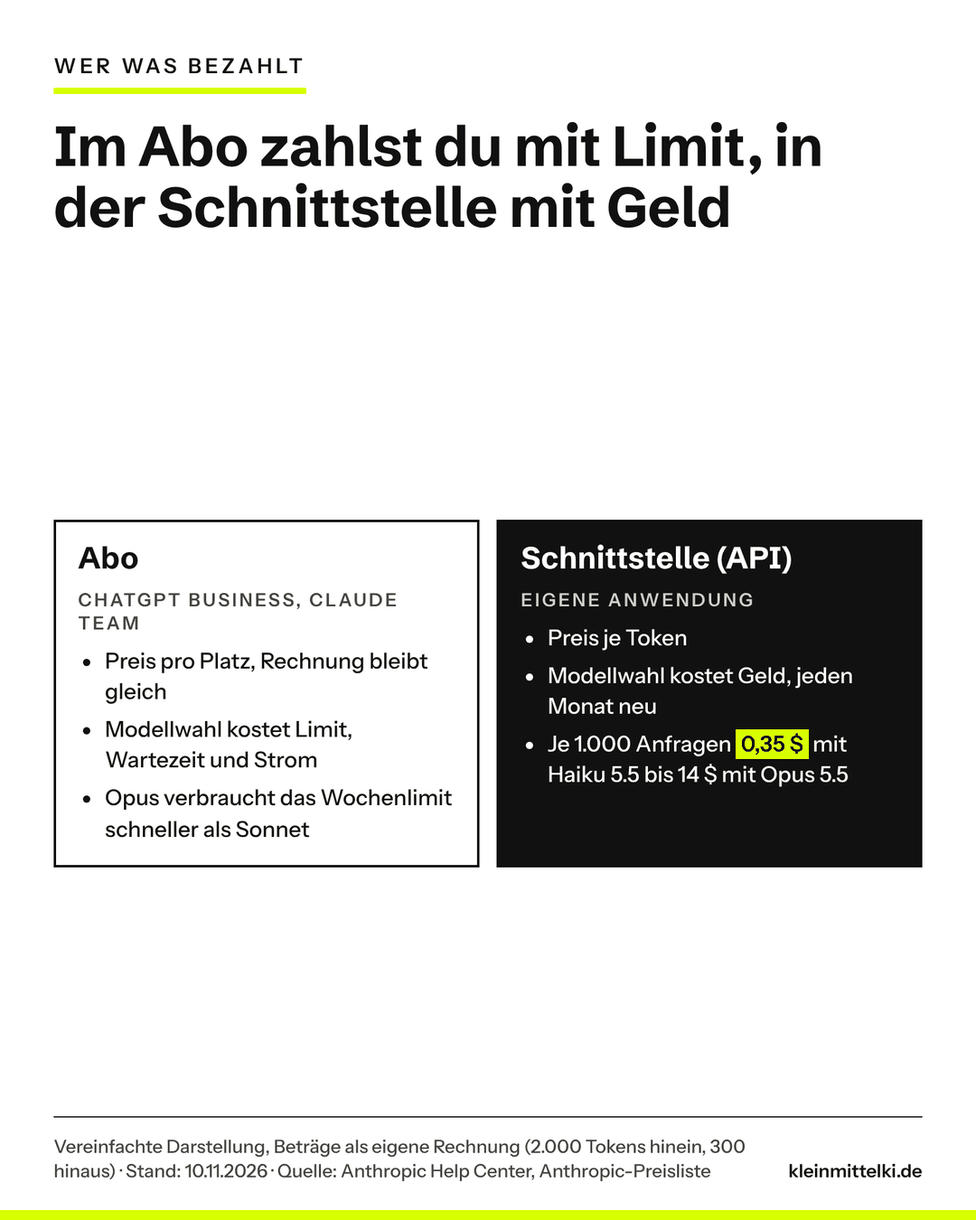
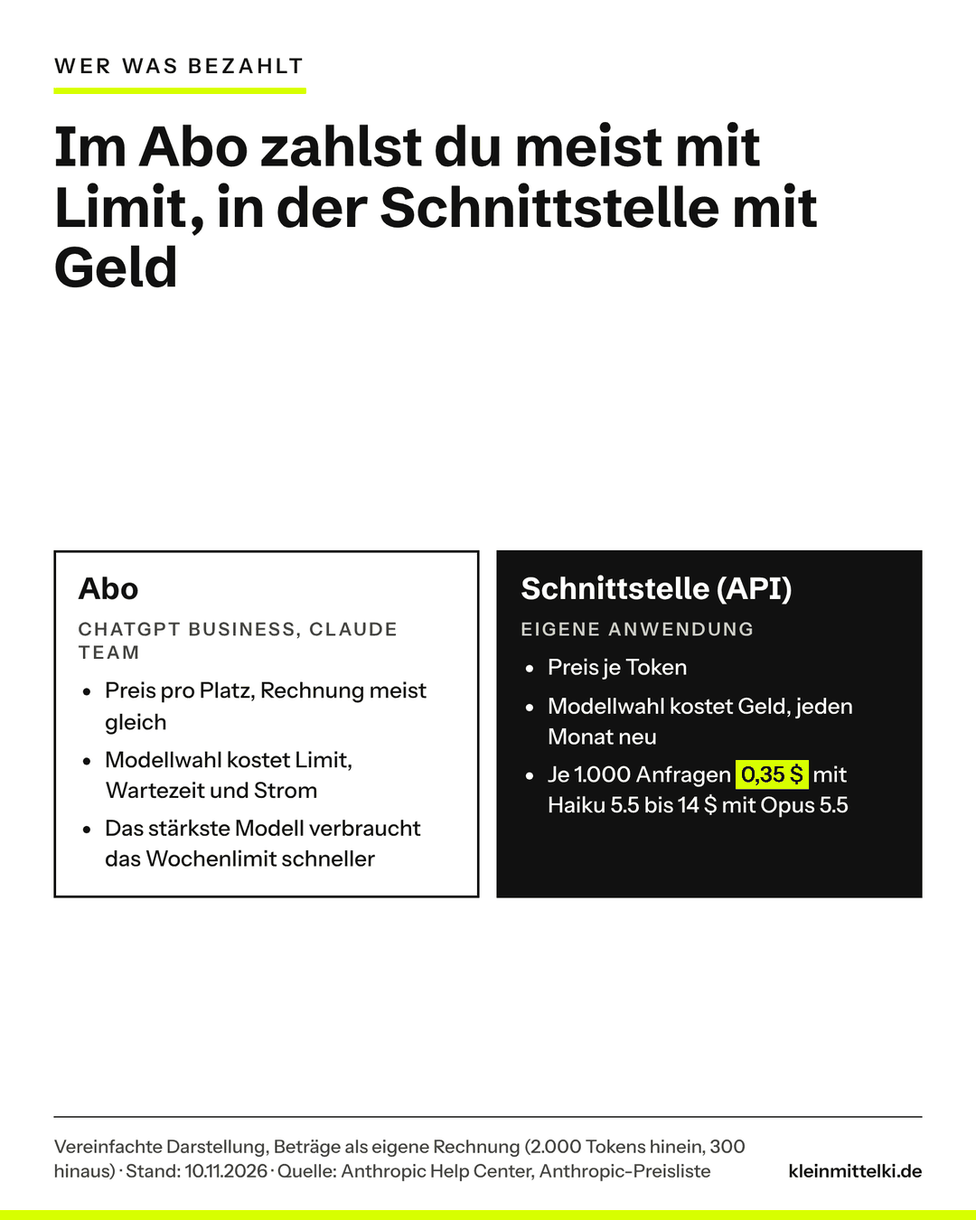
Lauf 2026-11-10 12:47: Runde 2 modellwahl-kanonen-auf-spatzen (Zwischenstand)
Claude-Session: https://claude.ai/code/session_0145MfsfLLRwnGTVkXbPMWG9

Changed region(s): [[0.4583, 0.4044, 0.9472, 0.7467], [0.0611, 0.4356, 0.4583, 0.7156], [0.0611, 0.0933, 0.8556, 0.2489]]

diff --git a/entwuerfe/modellwahl-kanonen-auf-spatzen/g2.html b/entwuerfe/modellwahl-kanonen-auf-spatzen/g2.html
@@ -1,9 +1,9 @@
 <div class="g">
   <div class="g-kicker">Wer was bezahlt</div>
-  <h1 class="g-titel">Im Abo zahlst du mit Limit, in der Schnittstelle mit Geld</h1>
+  <h1 class="g-titel">Im Abo zahlst du meist mit Limit, in der Schnittstelle mit Geld</h1>
   <div class="g-vergleich">
     <div><h3>Abo</h3><p class="g-kopf" style="margin-bottom:10px">ChatGPT Business, Claude Team</p>
-      <ul><li>Preis pro Platz, Rechnung bleibt gleich</li><li>Modellwahl kostet Limit, Wartezeit und Strom</li><li>Opus verbraucht das Wochenlimit schneller als Sonnet</li></ul></div>
+      <ul><li>Preis pro Platz, Rechnung meist gleich</li><li>Modellwahl kostet Limit, Wartezeit und Strom</li><li>Das stärkste Modell verbraucht das Wochenlimit schneller</li></ul></div>
     <div class="g-box--dunkel"><h3>Schnittstelle (API)</h3><p class="g-kopf" style="margin-bottom:10px;color:#cfcfc6">eigene Anwendung</p>
       <ul><li>Preis je Token</li><li>Modellwahl kostet Geld, jeden Monat neu</li><li>Je 1.000 Anfragen <mark>0,35 $</mark> mit Haiku 5.5 bis 14 $ mit Opus 5.5</li></ul></div>
   </div>

diff --git a/entwuerfe/modellwahl-kanonen-auf-spatzen/beitrag.md b/entwuerfe/modellwahl-kanonen-auf-spatzen/beitrag.md
@@ -8,14 +8,14 @@ vorschaubild: vorschaubild.png
 titelbild: titel-modellwahl-kanonen-auf-spatzen.jpg
 ---
 
-INTERN – vor Veröffentlichung entfernen: Thema und Bild „Kanonen auf Spatzen“ sind deine Idee (Chat 10.11.2026), ebenso die zwei Wege (Faustregel fürs Team, Technik davor). Eine eigene Einschätzung von dir liegt noch nicht vor. Deshalb steht im Schlussabschnitt ein Platzhalter [TILL: …] statt einer Ich-Passage; im ganzen Text gibt es sonst keine Ich-Form. Redaktionelle Vorschläge, bitte ersetzen oder freigeben: die Einstiegsszene (Ingenieurbüro mit 40 Leuten, Terminbestätigung), die Zuordnung der Beispielaufgaben zu den drei Stufen (angelehnt an Anthropics Einsatzempfehlungen und an deinen Modelle-Beitrag vom 08.10.), das Beispiel Hausverwaltung mit Kundenanfragen über die Schnittstelle, die fünf Schritte unter „Zum Ausprobieren“ samt Beispiel-Prompt und der Gedanke zum Mitnehmen. Die Preise je 1.000 Anfragen sind eine eigene Rechnung aus der offiziellen Preisliste mit einer angenommenen Anfrage von 2.000 Tokens hinein und 300 hinaus; die Annahme steht im Text. Dass viele Betriebe überdimensioniert arbeiten, ist nicht durch Nutzungsdaten belegt und deshalb als Beobachtung formuliert. Zweiter Platzhalter: Bitte in deinem ChatGPT-Business-Konto prüfen, wie die automatische Auswahl heute heißt.
+INTERN – vor Veröffentlichung entfernen: Thema und Bild „Kanonen auf Spatzen“ sind deine Idee (Chat 10.11.2026), ebenso die zwei Wege (Faustregel fürs Team, Technik davor). Eine eigene Einschätzung von dir liegt noch nicht vor. Deshalb steht im Schlussabschnitt ein Platzhalter [TILL: …] statt einer Ich-Passage; im ganzen Text gibt es sonst keine Ich-Form. Redaktionelle Vorschläge, bitte ersetzen oder freigeben: die Einstiegsszene (Ingenieurbüro mit 40 Leuten, Terminbestätigung), die Zuordnung der Beispielaufgaben zu den drei Stufen (angelehnt an Anthropics Einsatzempfehlungen und an deinen Modelle-Beitrag vom 08.10.), das Beispiel Hausverwaltung mit Kundenanfragen über die Schnittstelle, die fünf Schritte unter „Zum Ausprobieren“ samt Beispiel-Prompt und der Gedanke zum Mitnehmen. Die Preise je 1.000 Anfragen sind eine eigene Rechnung aus der offiziellen Preisliste mit einer angenommenen Anfrage von 2.000 Tokens hinein und 300 hinaus; die Annahme steht im Text. Dass viele Betriebe überdimensioniert arbeiten, ist nicht durch Nutzungsdaten belegt und deshalb als Beobachtung formuliert. Zweiter Platzhalter: Bitte in deinem ChatGPT-Business-Konto prüfen, wie die automatische Auswahl heute heißt. Nach Prüfrunde 1 geändert: Die Aussage „Opus verbraucht das Wochenlimit schneller als Sonnet“ ist gestrichen (Quelle nicht mehr erreichbar); belegt ist nur, dass Fable das Limit schneller verbraucht und auf Standard-Team-Plätzen nur über Zusatzguthaben läuft.
 
 Dienstagmorgen in einem Ingenieurbüro mit 40 Leuten. Die Assistenz der Geschäftsführung lässt sich eine Terminbestätigung an einen Bauherrn freundlicher formulieren. Drei Sätze, nichts Schwieriges. Im Firmenkonto ist das stärkste Modell eingestellt, also rechnet das stärkste Modell. Es ist, als würde man mit dem Sportwagen zum Bäcker fahren, um zwei Brötchen zu holen.
 
-Bisher ging es hier im Blog meist um die Frage, ob und wie Betriebe KI einsetzen. Dieser Beitrag richtet sich an die, die schon dabei sind: Betriebe mit 10 bis 150 Leuten, die ihrem Team ChatGPT Business oder Claude Team gegeben haben. Wer seinem Team ein solches Werkzeug gibt, lässt oft jede Aufgabe über dasselbe Modell laufen, egal ob Rechtschreibung oder Vertragsprüfung. Das Bild vom Auto kennst du vielleicht aus dem Beitrag [ChatGPT ist nicht das KI-Modell](https://www.kleinmittelki.de/chatgpt-claude-gemini-ki-modelle-erklaert/): Das Produkt ist das Fahrzeug, das Modell ist der Motor. Heute geht es um PS und Verbrauch.
+Dieser Beitrag richtet sich an Betriebe, die schon dabei sind: Betriebe mit 10 bis 150 Leuten, die ihrem Team ChatGPT Business oder Claude Team gegeben haben. Wer seinem Team ein solches Werkzeug gibt, lässt oft jede Aufgabe über dasselbe Modell laufen, egal ob Rechtschreibung oder Vertragsprüfung. Das Bild vom Auto kennst du vielleicht aus dem Beitrag [ChatGPT ist nicht das KI-Modell](https://www.kleinmittelki.de/chatgpt-claude-gemini-ki-modelle-erklaert/): Das Produkt ist das Fahrzeug, das Modell ist der Motor. Heute geht es um PS und Verbrauch.
 
 ```html
-<div class="kmk-kurz" style="border:2px solid #111;border-left:10px solid #D7FF00;padding:18px 22px;margin:28px 0;background:#fff;color:#111"><p style="margin:0 0 12px;font-weight:700;font-size:13px;letter-spacing:3px;text-transform:uppercase;line-height:1.3">Das Wichtigste in 30 Sekunden</p><ul style="margin:0;padding-left:20px;display:grid;gap:8px;line-height:1.5"><li style="margin:0">KI-Modelle gibt es in Größen wie Motoren. Bei Claude kostet das größte Modell je Token das 80-Fache des kleinsten.</li><li style="margin:0">Im Abo zahlst du pro Platz. Dort entscheidet die Modellwahl über Limits, Wartezeit und Strom. Echtes Geld kostet sie erst bei eigenen Anwendungen über die Schnittstelle.</li><li style="margin:0">Billig ist nicht automatisch günstig: Ein kleines Modell, das scheitert, kostet Nacharbeit. Für schwierige Aufgaben ist das große Modell richtig.</li><li style="margin:0">Weg 1: eine Faustregel fürs Team, welche Aufgabe auf welche Stufe gehört, dazu kurze Antworten bestellen und Dateien hochladen statt hineinkopieren.</li><li style="margin:0">Weg 2: Technik, die pro Anfrage entscheidet. In ChatGPT gibt es das schon, für eigene Anwendungen heißt es Router. Vorher an echten Fällen testen.</li></ul></div>
+<div class="kmk-kurz" style="border:2px solid #111;border-left:10px solid #D7FF00;padding:18px 22px;margin:28px 0;background:#fff;color:#111"><p style="margin:0 0 12px;font-weight:700;font-size:13px;letter-spacing:3px;text-transform:uppercase;line-height:1.3">Das Wichtigste in 30 Sekunden</p><ul style="margin:0;padding-left:20px;display:grid;gap:8px;line-height:1.5"><li style="margin:0">KI-Modelle gibt es in Größen wie Motoren. Bei Claude kostet das größte Modell je Token das 80-Fache des kleinsten.</li><li style="margin:0">Im Abo zahlst du pro Platz. Dort entscheidet die Modellwahl über Limits, Wartezeit und Strom, meist nicht über die Rechnung. Richtig Geld kostet sie bei eigenen Anwendungen über die Schnittstelle.</li><li style="margin:0">Billig ist nicht automatisch günstig: Ein kleines Modell, das scheitert, kostet Nacharbeit. Für schwierige Aufgaben ist das große Modell richtig.</li><li style="margin:0">Weg 1: eine Faustregel fürs Team, welche Aufgabe auf welche Stufe gehört, dazu kurze Antworten bestellen und Dateien hochladen statt hineinkopieren.</li><li style="margin:0">Weg 2: Technik, die pro Anfrage entscheidet. In ChatGPT gibt es das schon, für eigene Anwendungen heißt es Router. Vorher an echten Fällen testen.</li></ul></div>
 ```
 
 ## Gleiche Marke, unterschiedliche Motoren
@@ -27,7 +27,7 @@ Jeder große Anbieter hat mehrere Modelle gleichzeitig im Angebot, gestaffelt wi
 - **Claude Opus 5.5:** 4 US-Dollar hinein, 20 US-Dollar hinaus
 - **Claude Fable 5.2:** 8 US-Dollar hinein, 40 US-Dollar hinaus
 
-Je Token kostet Sonnet damit das 20-Fache von Haiku, Opus das 40-Fache und Fable das 80-Fache. Anthropic beschreibt auch, wofür die Stufen gedacht sind: Haiku für viele, zeitkritische Aufgaben wie Einordnen, Herausziehen und Weiterleiten, Sonnet für die meisten Anwendungen, Opus und Fable für das anspruchsvollste Denken und lange Aufgaben, bei denen ein Agent selbstständig viele Schritte erledigt.
+Je Token kostet Sonnet damit das 20-Fache von Haiku, Opus das 40-Fache und Fable das 80-Fache. Anthropic beschreibt auch, wofür die Stufen gedacht sind: Haiku für viele, zeitkritische Aufgaben wie Einordnen, Herausziehen und Weiterleiten, Sonnet für Alltagsarbeit wie Texte und Datenanalyse, Opus und Fable für das anspruchsvollste Denken und lange Aufgaben, bei denen ein Agent selbstständig viele Schritte erledigt.
 
 Was das in Euro und Cent heißt, zeigt eine einfache Rechnung. Angenommen, eine typische Anfrage schickt 2.000 Tokens hinein und bekommt 300 zurück. Dann kosten 1.000 solcher Anfragen mit Haiku 5.5 rund 0,35 US-Dollar, mit Sonnet 5.5 rund 7 US-Dollar, mit Opus 5.5 rund 14 US-Dollar und mit Fable 5.2 rund 28 US-Dollar. Die Annahme ist von uns gewählt, die Preise sind die offiziellen. Andere Längen verschieben die Beträge, nicht das Verhältnis.
 
@@ -37,25 +37,25 @@ In ChatGPT heißen die Stufen anders, das Prinzip ist dasselbe: Es gibt schnelle
 
 ## Was der Sprit kostet: Limits, Wartezeit und Strom
 
-Die meisten Betriebe nutzen ChatGPT oder Claude im Abo und zahlen pro Platz. Die Rechnung am Monatsende ändert sich nicht, egal welches Modell jemand wählt. Trotzdem ist der Sprit nicht kostenlos, er wird nur in anderer Währung bezahlt.
+Die meisten Betriebe nutzen ChatGPT oder Claude im Abo und zahlen pro Platz. Solange niemand Zusatzguthaben nutzt, ändert sich die Rechnung am Monatsende nicht. Ausnahme: Das stärkste Claude-Modell läuft auf Standard-Plätzen im Team-Abo nur über solches Guthaben. Sonst wird der Sprit in anderer Währung bezahlt.
 
-**Limits:** Laut [Anthropic](https://support.claude.com/en/articles/9797557) hängt die Nutzungsgrenze unter anderem von der Länge der Nachrichten, der Größe der Dateien und von der Modellwahl ab. Für Team- und Enterprise-Plätze schreibt Anthropic ausdrücklich, dass Opus das Wochenlimit schneller verbraucht als Sonnet, und empfiehlt Sonnet für den Alltag. Wer morgens für jede Kleinigkeit das größte Modell nimmt, steht nachmittags bei der wichtigen Auswertung womöglich an der Grenze.
+**Limits:** Laut [Anthropic](https://support.claude.com/en/articles/9797557-usage-limit-best-practices) hängt die Nutzungsgrenze unter anderem von der Länge der Nachrichten, der Größe der Dateien und von der Modellwahl ab. Beim stärksten Modell schreibt Anthropic es [ausdrücklich](https://support.claude.com/en/articles/15424964-claude-fable-models-on-your-plan): Fable verbraucht das Wochenlimit schneller als die anderen Claude-Modelle. Wer morgens für jede Kleinigkeit das größte Modell nimmt, steht nachmittags bei der wichtigen Auswertung womöglich an der Grenze.
 
 **Wartezeit:** Kleine Modelle antworten schneller. Anthropic empfiehlt Haiku ausdrücklich für die niedrigste Wartezeit. Bei vielen Anfragen am Tag merkt man das.
 
-**Strom:** Eine Studie der Hochschule München hat 14 offene Modelle mit 1.000 Fragen auf eigener Hardware gemessen. Modelle, die vor der Antwort ausführlich „nachdenken“, erzeugten [bis zu 50-mal so viel CO₂](https://www.frontiersin.org/news/2025/06/19/ai-prompts-50-times-more-co2-emissions) wie knapp antwortende Modelle. Im Schnitt schrieben sie 543,5 Denk-Tokens je Frage, die knappen Modelle 37,7. Die Studie betrifft offene Modelle, nicht ChatGPT oder Claude selbst. Die Richtung ist trotzdem klar, und der Rat des Autors Maximilian Dauner lautet sinngemäß: knapp antworten lassen und große Modelle nur für Aufgaben nutzen, die sie wirklich brauchen.
+**Strom:** Eine Studie der Hochschule München hat 14 offene Modelle mit 1.000 Fragen auf eigener Hardware gemessen. Modelle, die vor der Antwort ausführlich „nachdenken“, erzeugten [bis zu 50-mal so viel CO₂](https://www.frontiersin.org/news/2025/06/19/ai-prompts-50-times-more-co2-emissions) wie knapp antwortende Modelle. Die Studie betrifft offene Modelle, nicht ChatGPT oder Claude selbst. Der Rat des Autors Maximilian Dauner lautet sinngemäß: knapp antworten lassen und große Modelle nur für Aufgaben nutzen, die sie wirklich brauchen.
 
 **Geld:** Um echte Euro geht es erst, wenn ein Betrieb eine eigene Anwendung über die Schnittstelle baut, die sogenannte API. Ein Beispiel: Eine Hausverwaltung lässt eingehende Mieteranfragen automatisch einsortieren, also Schaden, Nebenkosten oder Kündigung. Kommen viele solcher Anfragen zusammen, macht der Unterschied zwischen 0,35 und 14 US-Dollar je 1.000 Anfragen aus der Rechnung oben einen echten Posten.
 
-![Schaubild: Abo und Schnittstelle im Vergleich, im Abo kostet die Modellwahl Limit, Wartezeit und Strom, in der Schnittstelle Geld](kmk-modellwahl-g2.png "Im Abo zahlst du die Modellwahl mit Limit und Wartezeit, über die Schnittstelle mit Geld.")
+![Schaubild: Abo und Schnittstelle im Vergleich, im Abo kostet die Modellwahl vor allem Limit, Wartezeit und Strom, das stärkste Modell verbraucht das Wochenlimit schneller; in der Schnittstelle kostet sie Geld](kmk-modellwahl-g2.png "Im Abo zahlst du die Modellwahl meist mit Limit und Wartezeit, über die Schnittstelle mit Geld.")
 
 ## Billig ist nicht immer günstig
 
-Bevor jetzt jemand alles auf das kleinste Modell umstellt: Anthropic selbst warnt vor dem Kurzschluss. Der Rat in der [Hersteller-Doku](https://platform.claude.com/docs/en/about-claude/models/optimizing-for-cost-and-intelligence) lautet, Modelle nach den Kosten je erledigter Aufgabe zu vergleichen, nicht nach dem Preis je Token. Ein günstiges Modell, das scheitert, kostet den Versuch, die Wiederholung und die Folgen. In einem Betrieb heißt das: die Zeit des Mitarbeiters, der nacharbeitet, oder im schlechtesten Fall den Fehler im Angebot.
+Bevor jetzt jemand alles auf das kleinste Modell umstellt: Der Rat in der [Hersteller-Doku](https://platform.claude.com/docs/en/about-claude/models/optimizing-for-cost-and-intelligence) lautet, Modelle nach den Kosten je erledigter Aufgabe zu vergleichen, nicht nach dem Preis je Token. Ein günstiges Modell, das scheitert, kostet den Versuch, die Wiederholung und die Folgen. In einem Betrieb heißt das: die Zeit des Mitarbeiters, der nacharbeitet, oder im schlechtesten Fall den Fehler im Angebot.
 
-Anthropics eigene Messungen zeigen beide Seiten. In einem Test mit schwierigen Prüfungsfragen beantwortete Haiku 5.5 85 Prozent richtig, Opus 5.5 und Sonnet 5.5 je 91 Prozent. Je richtiger Antwort kostete Haiku etwa ein Zwanzigstel von Opus. Günstiger also, aber eben auch mit mehr falschen Antworten. Ob sich das lohnt, hängt davon ab, was eine falsche Antwort in deinem Ablauf anrichtet.
+Anthropics eigene Messungen zeigen beide Seiten. In einem Test mit schwierigen Prüfungsfragen beantwortete Haiku 5.5 85 Prozent richtig, Opus 5.5 und Sonnet 5.5 je 91 Prozent. Je richtiger Antwort kostete Haiku etwa ein Zwanzigstel von Opus. Ob sich das lohnt, hängt davon ab, was eine falsche Antwort in deinem Ablauf anrichtet.
 
-Umgekehrt ist das große Modell nicht automatisch teurer pro Ergebnis. In einem Programmier-Test löste Opus 5.5 auf niedriger Denkstufe etwa so viele Aufgaben wie Sonnet 5.5 auf Standardstufe, für etwa 7 Prozent mehr je gelöster Aufgabe. Und das stärkste Modell bringt nicht immer mehr: In einem Recherche-Test kostete Fable 5.2 das 4,3-Fache von Sonnet 5.5, ohne messbar besseres Ergebnis. Anthropic nennt den Denkaufwand innerhalb eines Modells deshalb oft den besseren Hebel als den Wechsel des Modells. Für Entwickler empfiehlt der Hersteller zwei gleichwertige Wege: klein anfangen und nur bei konkreten Lücken hochstufen, oder groß anfangen und dann prüfen, ob weniger reicht.
+Umgekehrt ist das große Modell nicht automatisch teurer pro Ergebnis. In einem Programmier-Test löste Opus 5.5 auf niedriger Denkstufe etwa so viele Aufgaben wie Sonnet 5.5 auf Standardstufe, für etwa 7 Prozent mehr je gelöster Aufgabe. Und das stärkste Modell bringt nicht immer mehr: In einem Recherche-Test kostete Fable 5.2 das 4,3-Fache von Sonnet 5.5, ohne messbar besseres Ergebnis. Anthropic nennt den Denkaufwand innerhalb eines Modells deshalb oft den besseren Hebel als den Wechsel des Modells.
 
 Eine Einschränkung gehört dazu: Das alles sind Messungen des Herstellers, laut Anthropic selbst „richtungsweisend, keine Garantie“. Die Botschaft ist deshalb nicht „immer klein“, sondern: passend. Für den Vertragsvergleich, die mehrstufige Recherche oder die knifflige Kalkulation ist das große Modell richtig.
 
@@ -75,26 +75,26 @@ Zwei weitere Gewohnheiten sparen unabhängig vom Modell.
 
 **Kurze Antworten bestellen.** Anthropic hat denselben Agenten mit unterschiedlichen Vorgaben fürs Ergebnis laufen lassen. Eine Zeile kostete 0,49 US-Dollar, zwei Zeilen 0,57 US-Dollar, ein ausführliches Memo 1,40 US-Dollar, also das 2,8-Fache. Die Genauigkeit war im Rahmen der Messschwankung gleich. Frag also nach der Antwort, die du wirklich liest, nicht nach der, die gründlich aussieht.
 
-**Dateien hochladen statt hineinkopieren.** Im selben Dokument steht ein Versuch mit 25 Fragen zu einer Tabelle mit 1.862 Zeilen. In die Anfrage kopiert, waren 7 von 25 Antworten richtig, bei 5,01 US-Dollar. Als Datei hochgeladen und per Programmcode ausgewertet, waren es 25 von 25, bei 0,40 US-Dollar, etwa einem Zwölftel. Gemessen wurde das über die Schnittstelle. Dass es in den Chat-Programmen ähnlich wirkt, die Tabelle also besser als Datei hochzuladen statt hineinzukopieren, ist plausibel, aber nicht gemessen.
+**Dateien hochladen statt hineinkopieren.** Im selben Dokument steht ein Versuch mit 25 Fragen zu einer Tabelle mit 1.862 Zeilen. In die Anfrage kopiert, waren 7 von 25 Antworten richtig, bei 5,01 US-Dollar. Als Datei hochgeladen und per Programmcode ausgewertet, waren es 25 von 25, bei 0,40 US-Dollar, etwa einem Zwölftel. Gemessen wurde das über die Schnittstelle. Dass es in den Chat-Programmen ähnlich wirkt, ist plausibel, aber nicht gemessen.
 
 ## Weg 2: Technik, die vorher entscheidet
 
-Der zweite Weg nimmt dem Team die Entscheidung ab. Eine Weiche schaut sich jede Anfrage an und schickt sie entweder an ein kleines oder an ein großes Modell.
+Der zweite Weg nimmt dem Team die Entscheidung ab: Eine Weiche schaut sich jede Anfrage an und schickt sie entweder an ein kleines oder an ein großes Modell.
 
 In ChatGPT gibt es das bereits, die Auswahl heißt „Auto“. In den [Release Notes für Enterprise](https://help.openai.com/en/articles/10128477-chatgpt-enterprise-and-edu-release-notes) beschreibt OpenAI, dass Administratoren die automatische Weiterleitung auf ein kleineres Denkmodell lenken können. [TILL: Bitte im eigenen ChatGPT-Business-Konto prüfen, wie die automatische Auswahl dort heute heißt und ob sie voreingestellt ist; dann diesen Platzhalter löschen.] Für Betriebe, die nur das Abo nutzen, heißt das: Wer „Auto“ stehen lässt, überlässt die Wahl dem Anbieter. Wer fest das größte Modell einstellt, schaltet die Weiche ab.
 
-Für eigene Anwendungen über die Schnittstelle heißt diese Weiche Router. Forschende der UC Berkeley haben 2024 mit [RouteLLM](https://www.lmsys.org/blog/2024-07-01-routellm) gezeigt, wie viel das bringen kann: Je nach Testaufgaben sanken die Kosten um 35 Prozent, 45 Prozent oder um über 85 Prozent gegenüber „alles an das große Modell“, bei 95 Prozent von dessen Qualität. In einem der Tests reichte es dafür, 26 Prozent der Anfragen an das große Modell zu schicken, nach zusätzlichem Training 14 Prozent. Eine Stanford-Gruppe hatte 2023 mit [FrugalGPT](https://arxiv.org/abs/2305.05176) ein verwandtes Prinzip beschrieben, die Kaskade: erst das günstige Modell fragen, nur wenn die Antwort nicht reicht, das nächstgrößere. Die Preise der Anbieter unterschieden sich damals um zwei Größenordnungen, die Ersparnis lag unter Laborbedingungen bei bis zu 98 Prozent.
+Für eigene Anwendungen über die Schnittstelle heißt diese Weiche Router. Forschende der UC Berkeley haben 2024 mit [RouteLLM](https://www.lmsys.org/blog/2024-07-01-routellm) gezeigt, wie viel das bringen kann: Je nach Testaufgaben sanken die Kosten um 35 Prozent, 45 Prozent oder um über 85 Prozent gegenüber „alles an das große Modell“, bei 95 Prozent von dessen Qualität. In einem der Tests reichte es dafür, 26 Prozent der Anfragen an das große Modell zu schicken, nach zusätzlichem Training 14 Prozent. Eine Stanford-Gruppe beschrieb 2023 mit [FrugalGPT](https://arxiv.org/abs/2305.05176) die verwandte Kaskade: erst das günstige Modell fragen, nur wenn nötig das nächstgrößere, unter Laborbedingungen mit bis zu 98 Prozent Ersparnis.
 
 ![Schaubild: Ein Router prüft jede Anfrage und schickt einfache an ein kleines, schwierige an ein großes Modell, dazu die Ergebnisse von RouteLLM 2024](kmk-modellwahl-g4.png "Das Prinzip zählt, nicht die Zahl: Wie viel ein Router spart, hängt davon ab, wie viele deiner Anfragen wirklich einfach sind.")
 
-Beide Zahlen stammen aus der Forschung mit Modellen und Preisen von 2023 und 2024. Sie zeigen das Prinzip, kein Versprechen. Wie viel ein Router spart, hängt vor allem davon ab, wie viele der eigenen Anfragen wirklich einfach sind. Deshalb gilt vor jedem Umbau: an echten Fällen aus dem eigenen Betrieb testen, nicht an Ranglisten. Das empfiehlt auch Anthropic. Und es lohnt sich die Frage aus dem Beitrag [Nicht jedes Problem braucht KI](https://www.kleinmittelki.de/nicht-jedes-problem-braucht-ki/): Steht das Merkmal schon im Betreff, reicht vielleicht eine Mailregel ganz ohne Modell.
+Beide Zahlen stammen aus der Forschung mit Modellen und Preisen von 2023 und 2024. Sie zeigen das Prinzip, kein Versprechen. Deshalb gilt vor jedem Umbau: an echten Fällen aus dem eigenen Betrieb testen, nicht an Ranglisten. Das empfiehlt auch Anthropic. Und es lohnt sich die Frage aus dem Beitrag [Nicht jedes Problem braucht KI](https://www.kleinmittelki.de/nicht-jedes-problem-braucht-ki/): Steht das Merkmal schon im Betreff, reicht vielleicht eine Mailregel ganz ohne Modell.
 
 Zwei Hebel für Anwendungen über die Schnittstelle gibt es außerdem. Was nicht sofort fertig sein muss, etwa das nächtliche Einsortieren von Belegen, kann über die Stapelverarbeitung laufen: Antwort meist innerhalb einer Stunde, spätestens nach 24 Stunden, dafür 50 Prozent Rabatt. Und laut Anthropic ist das Zwischenspeichern wiederkehrender Anweisungen, Prompt Caching genannt, in den eigenen Messungen meist der größte Hebel.
 
 ## Zum Ausprobieren: drei Aufgaben, zwei Stufen
 
 ```html
-<div class="kmk-kurz" style="border:2px solid #111;border-left:10px solid #D7FF00;padding:18px 22px;margin:28px 0;background:#fff;color:#111"><p style="margin:0 0 12px;font-weight:700;font-size:13px;letter-spacing:3px;text-transform:uppercase;line-height:1.3">Zum Ausprobieren: die eigene Faustregel in einer halben Stunde</p><ol style="margin:0;padding:0;list-style:none;display:grid;gap:10px;line-height:1.5"><li style="margin:0;display:grid;grid-template-columns:30px 1fr;gap:10px;align-items:start"><span style="background:#D7FF00;font-weight:700;text-align:center;line-height:30px;height:30px">1</span><span>Such dir drei typische Aufgaben aus deinem Betrieb: eine leichte (Mail umformulieren), eine mittlere (Angebotstext), eine schwere (zwei Verträge vergleichen).</span></li><li style="margin:0;display:grid;grid-template-columns:30px 1fr;gap:10px;align-items:start"><span style="background:#D7FF00;font-weight:700;text-align:center;line-height:30px;height:30px">2</span><span>Lass jede Aufgabe einmal mit der kleinsten und einmal mit der größten Stufe laufen, die dein Abo anbietet. Gleicher Prompt, gleiche Unterlagen.</span></li><li style="margin:0;display:grid;grid-template-columns:30px 1fr;gap:10px;align-items:start"><span style="background:#D7FF00;font-weight:700;text-align:center;line-height:30px;height:30px">3</span><span>Leg die Antworten nebeneinander und frag dich nur: Welche würde ich so verschicken oder verwenden?</span></li><li style="margin:0;display:grid;grid-template-columns:30px 1fr;gap:10px;align-items:start"><span style="background:#D7FF00;font-weight:700;text-align:center;line-height:30px;height:30px">4</span><span>Wo die kleine Stufe reicht, kommt die Aufgabe in die Faustregel fürs Team. Wo nicht, bleibt sie beim großen Modell.</span></li><li style="margin:0;display:grid;grid-template-columns:30px 1fr;gap:10px;align-items:start"><span style="background:#D7FF00;font-weight:700;text-align:center;line-height:30px;height:30px">5</span><span>Wiederhole die leichte Aufgabe mit dem Zusatz unten und vergleiche, ob dir etwas fehlt.</span></li></ol></div>
+<div class="kmk-kurz" style="border:2px solid #111;border-left:10px solid #D7FF00;padding:18px 22px;margin:28px 0;background:#fff;color:#111"><p style="margin:0 0 12px;font-weight:700;font-size:13px;letter-spacing:3px;text-transform:uppercase;line-height:1.3">Die eigene Faustregel in einer halben Stunde</p><ol style="margin:0;padding:0;list-style:none;display:grid;gap:10px;line-height:1.5"><li style="margin:0;display:grid;grid-template-columns:30px 1fr;gap:10px;align-items:start"><span style="background:#D7FF00;font-weight:700;text-align:center;line-height:30px;height:30px">1</span><span>Such dir drei typische Aufgaben aus deinem Betrieb: eine leichte (Mail umformulieren), eine mittlere (Angebotstext), eine schwere (zwei Verträge vergleichen).</span></li><li style="margin:0;display:grid;grid-template-columns:30px 1fr;gap:10px;align-items:start"><span style="background:#D7FF00;font-weight:700;text-align:center;line-height:30px;height:30px">2</span><span>Lass jede Aufgabe einmal mit der kleinsten und einmal mit der größten Stufe laufen, die dein Abo anbietet. Gleicher Prompt, gleiche Unterlagen.</span></li><li style="margin:0;display:grid;grid-template-columns:30px 1fr;gap:10px;align-items:start"><span style="background:#D7FF00;font-weight:700;text-align:center;line-height:30px;height:30px">3</span><span>Leg die Antworten nebeneinander und frag dich nur: Welche würde ich so verschicken oder verwenden?</span></li><li style="margin:0;display:grid;grid-template-columns:30px 1fr;gap:10px;align-items:start"><span style="background:#D7FF00;font-weight:700;text-align:center;line-height:30px;height:30px">4</span><span>Wo die kleine Stufe reicht, kommt die Aufgabe in die Faustregel fürs Team. Wo nicht, bleibt sie beim großen Modell.</span></li><li style="margin:0;display:grid;grid-template-columns:30px 1fr;gap:10px;align-items:start"><span style="background:#D7FF00;font-weight:700;text-align:center;line-height:30px;height:30px">5</span><span>Wiederhole die leichte Aufgabe mit dem Zusatz unten und vergleiche, ob dir etwas fehlt.</span></li></ol></div>
 ```
 
 ```html
@@ -103,7 +103,7 @@ Zwei Hebel für Anwendungen über die Schnittstelle gibt es außerdem. Was nicht
 
 ## Was das für den Mittelstand bedeutet
 
-Für die meisten Betriebe mit Abo geht es bei der Modellwahl nicht um die Rechnung, sondern um Limits, Wartezeit und Strom. Die Faustregel aus Weg 1 ist in einer Teamrunde erledigt und kostet nichts.
+Für die meisten Betriebe mit Abo geht es bei der Modellwahl meist nicht um die Rechnung, sondern um Limits, Wartezeit und Strom. Ausnahme ist Zusatzguthaben, etwa für das stärkste Claude-Modell. Die Faustregel aus Weg 1 ist in einer Teamrunde erledigt und kostet nichts.
 
 Anders sieht es aus, sobald ein Betrieb eigene Abläufe über die Schnittstelle automatisiert, etwa Anfragen sortieren oder Rechnungsdaten auslesen. Dann wird die Modellwahl zu einer Kostenfrage, die sich mit jedem Monat wiederholt. Hier lohnt der Test mit echten Fällen, bevor das größte Modell fest eingebaut wird, und die Frage nach Stapelverarbeitung und Zwischenspeicher.
 
@@ -122,8 +122,8 @@ Abgerufen am 10.11.2026, zuletzt geprüft am 10.11.2026
 - [Anthropic, Claude-Dokumentation: Pricing (abgerufen 10.11.2026)](https://platform.claude.com/docs/en/about-claude/pricing)
 - [Anthropic, Claude-Dokumentation: Choosing the right model (abgerufen 10.11.2026)](https://platform.claude.com/docs/en/about-claude/models/choosing-a-model)
 - [Anthropic, Claude-Dokumentation: Optimizing for cost and intelligence (abgerufen 10.11.2026)](https://platform.claude.com/docs/en/about-claude/models/optimizing-for-cost-and-intelligence)
-- [Anthropic Help Center: Artikel zu Nutzungsgrenzen in Claude (abgerufen 10.11.2026)](https://support.claude.com/en/articles/9797557)
-- [Anthropic Help Center: About Team and Enterprise plan usage (abgerufen 10.11.2026)](https://support.claude.com/en/articles/9267304-about-team-and-enterprise-plan-usage)
+- [Anthropic Help Center: Usage limit best practices (abgerufen 10.11.2026)](https://support.claude.com/en/articles/9797557-usage-limit-best-practices)
+- [Anthropic Help Center: Claude Fable models on your plan (abgerufen 10.11.2026)](https://support.claude.com/en/articles/15424964-claude-fable-models-on-your-plan)
 - [OpenAI Help Center: ChatGPT Enterprise and Edu Release Notes (abgerufen 10.11.2026)](https://help.openai.com/en/articles/10128477-chatgpt-enterprise-and-edu-release-notes)
 - [OpenAI Help Center: ChatGPT Release Notes (abgerufen 10.11.2026)](https://help.openai.com/en/articles/6825453-chatgpt-release-notes)
 - [Ong, Almahairi, Wu u. a. (LMSYS/UC Berkeley): RouteLLM: An Open-Source Framework for Cost-Effective LLM Routing (01.07.2024)](https://www.lmsys.org/blog/2024-07-01-routellm)

diff --git a/entwuerfe/modellwahl-kanonen-auf-spatzen/quellen.md b/entwuerfe/modellwahl-kanonen-auf-spatzen/quellen.md
@@ -81,12 +81,17 @@ Text nicht nennen (Themenregel: keine Benchmark-Rennen), nur als Größenordnung
 
 ## 4. Anthropic Help Center: Nutzungsgrenzen in den Abos
 
-- https://support.claude.com/en/articles/9797557 (Abruf 10.11.2026, Ausschnitt aus Suche): Die Nutzungsgrenze hängt u. a.
+- https://support.claude.com/en/articles/9797557-usage-limit-best-practices (Abruf 10.11.2026, Ausschnitt aus Suche; laut Prüfer 10.11.: nennt Modellwahl als Faktor, aber weder Opus noch Sonnet und keine Alltagsempfehlung): Die Nutzungsgrenze hängt u. a.
   von Nachrichtenlänge, Dateigröße, Gesprächslänge, Werkzeugen (Recherche, Websuche) **und der Modellwahl** ab.
-- https://support.claude.com/en/articles/9267304-about-team-and-enterprise-plan-usage (Abruf 10.11.2026): Für Team- und
+- **VERALTET (Prüfrunde 1, 10.11.2026): Seite liefert HTTP 404, Aussage im Beitrag gestrichen.**
+  https://support.claude.com/en/articles/9267304-about-team-and-enterprise-plan-usage (Abruf 10.11.2026): Für Team- und
   Enterprise-Plätze (Standard) verbraucht Opus das Wochenlimit schneller als Sonnet; Anthropic empfiehlt Sonnet für den Alltag.
   **Achtung:** Seite nennt noch Opus 4.5 / Sonnet 4.5 („Updated this week“, kein Datum) → nur den Grundsatz verwenden,
   keine Modellnamen daraus.
+- https://support.claude.com/en/articles/15424964-claude-fable-models-on-your-plan (Abruf 10.11.2026, Prüfer und Autor):
+  Fable-Modelle zählen auf Max, Ultra und Premium-Plätzen in Team/Enterprise gegen das Wochenlimit, verbrauchen es schneller als
+  andere Claude-Modelle, höchstens 50 % des Wochenlimits für Fable ohne Aufpreis. Auf Pro und Standard-Team-Plätzen sind
+  Fable-Modelle nicht in den Limits enthalten und laufen von Anfang an über nutzungsabhängiges Guthaben (usage credits).
 - Zweitquellen (nicht verwenden): Faktor „Opus ca. 5x schneller am Limit“ (usagebar.com) – nicht von Anthropic belegt.
 
 ## 5. OpenAI: Automatische Modellwahl in ChatGPT („Auto“)
